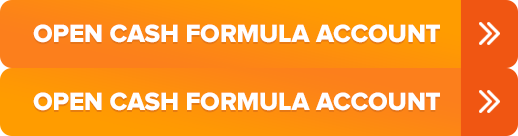
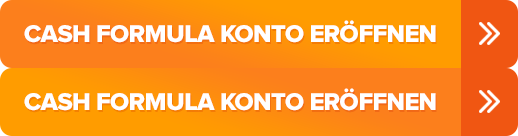
translations

Changed region(s): [[0.0309, 0.6471, 0.8649, 0.8235], [0.0309, 0.1471, 0.8649, 0.3235]]

diff --git a/cashformula.com/index.html b/cashformula.com/index.html
@@ -4,7 +4,7 @@
   <script src="https://cdn.optimizely.com/js/6585910006.js"></script>
   
   <meta http-equiv="Content-Type" content="text/html; charset=utf-8" />
-  <title>Only At CashFormula.com</title>
+  <title>CashFormula-DE.com</title>
     <meta name="description" content="Cash Formula multi-billion dollar loophole revealed">
     <meta name="keywords" content="Cash Formula, Cash Formula Scam, Cash Formula Review">
   <meta name="viewport" content="width=device-width, initial-scale=1">
@@ -24,7 +24,7 @@
     <link rel="stylesheet" href="css/popup.css%3Fv=1.css" media="screen" /><link rel="stylesheet" href="css/overlay_css.css" media="screen" />
 <style>
   #vid-screen{max-width:950px;}
-  .enter-email-txt{text-align: center; font-size: 23px;}
+  .enter-email-txt{text-align: center; font-size: 20px;}
   
   #myModal .modal-content, #overlay .modal-content {background: url(images/chance_header.jpg) no-repeat #fff !important; border:0px;}
     #remove_befor_arrow::before{
@@ -64,7 +64,7 @@
               <div id="vid-screen">
                 <div class="wistia_responsive_padding" style="padding:56.25% 0 0 0;position:relative;">
                   <div class="wistia_responsive_wrapper" style="height:100%;left:0;position:absolute;top:0;width:100%;">
-                    <div id="wistia_lzi5bfkb2y" class="wistia_embed" style="width:100%;height:100%;">&nbsp;</div>
+                      <iframe src="https://www.youtube.com/embed/V_YKwDkvnOk?controls=0&amp;showinfo=0&amp;rel=0&amp;title=0&amp;autohide=1&amp;wmode=transparent&amp;hd=1&amp;autoplay=0" allowtransparency="true" frameborder="0" scrolling="no" class="wistia_embed" name="wistia_embed" allowfullscreen mozallowfullscreen webkitallowfullscreen oallowfullscreen msallowfullscreen width="100%" height="100%" frameborder="0" allowfullscreen="allowfullscreen"></iframe>
                   </div>
                 </div>
                 <script charset="ISO-8859-1" src="http://fast.wistia.com/assets/external/E-v1.js"></script>
@@ -77,33 +77,34 @@
         </div>
         <div class="row">
           <div class="col-md-8 col-md-offset-2">
-            <p align="center" class="enter-email-txt">Enter your <span class="gotham-medium">first name</span> and <span class="gotham-medium">best email address</span> below to proceed:</p>
+            <p align="center" class="enter-email-txt">Geben Sie unten <span class="gotham-medium">Ihren Vornamen</span> und <span
+                    class="gotham-medium">beste E-Mail-Adresse</span> ein, um fortzufahren:</p>
             <div class="clearfix"></div>
             <div class="form-box1">
               <form id="submit_form" class="submit_form" accept-charset="utf-8" method="post" action="javascript:;">
                 <div class="row">
                   <div class="col-md-6">
                     <label>
-                      <input type="text" class="name-icon" id="fname" name="name" value="" placeholder="Enter Your Full Name Here" />
+                      <input type="text" class="name-icon" id="fname" name="name" value="" placeholder="Geben Sie hier Ihren vollständigen Namen ein" />
                     </label>
                   </div>
                   <div class="col-md-6">
                     <label>
-                      <input type="email" class="email-icon" id="email" name="email" value placeholder="Enter Your Email Here"/>
+                      <input type="email" class="email-icon" id="email" name="email" value placeholder="Geben Sie hier Ihre E-Mail-Adresse ein"/>
                     </label>
                   </div>
                   <div class="col-md-12 want_acces">
                     <div class="license">
-                      <p>Limited Spots</p>
+                      <p>Begrenzte Plätze</p>
                       <span><img src = "http://www.bfnsoftware.com/cgi-bin/home/Members/Flag/Flag.cgi?User=30916"></span>
                     </div>
                     <label>
-                      <input name="" type="submit" value="I Want My Free Account Now      &gt;&gt;" class="sub-btn1" />
+                      <input name="" type="submit" value="Cash Formula Konto eröffnen" class="sub-btn1" />
                     </label>
                   </div>
                 </div>
               </form>
-              <p align="center" class="gurantee-txt"><img src="images/lock-icon.png" alt=""  align="absmiddle" /> GUARANTEED SECURE ACCESS ENSURED BY TRUSTED COMPANIES</p>
+              <p align="center" class="gurantee-txt"><img src="images/lock-icon.png" alt=""  align="absmiddle" /> Garantiert sicherer Zugriff wird durch vertrauenswürdige Unternehmen gewährleistet</p>
               <p align="center" class="verify"><img src="images/verisign.png" alt=""  /> <img src="images/mcafee.png" alt=""  /> <img src="images/truste.png" alt="" /> <img src="images/norton.png" alt="" /></p>
             </div>
           </div><div class="clearfix"></div>
@@ -135,20 +136,20 @@
                 <img src="images/header-logo-tm3.png" alt="" width="184" height="31" align="absmiddle" /><!-- <span class="register-logo">&trade;</span> -->
             </div>
             <div class="col-md-7 footer-links">
-                <p>&copy; 2016 CashFormula. All Rights Reserved.</p>
-                <a target="_blank" href="usdisclaimer.php.html">Government Disclaimer</a> |
-                <a target="_blank" href="privacy.php.html">Privacy Policy</a> |
-                <a target="_blank" href="tos.php.html">Terms</a> |
-                <a target="_blank" href="disclaimer.php.html">Earnings Disclaimer</a> |
-                <a target="_blank" href="anti_spam_policy.php.html">Spam Policy</a> |
-                <a href="mailto:support@cashformulamembersarea.com">Support</a>
+                <p>&copy; 2016 CashFormula-DE. Alle Rechte vorbehalten.</p>
+                <a target="_blank" href="usdisclaimer.php.html">Staatlicher Haftungsausschluss</a> |
+                <a target="_blank" href="privacy.php.html">Datenschutzrichtlinien</a> |
+                <a target="_blank" href="tos.php.html">Bestimmungen</a> |
+                <a target="_blank" href="disclaimer.php.html">Gewinn-Haftungsausschluss</a> |
+                <a target="_blank" href="anti_spam_policy.php.html">Spam-Richtlinien</a> |
+                <a href="mailto:support@cashformula-de.com">Hilfe</a>
             </div>
                           <div class="col-md-3"><div class="notification_wrap" id="name_email_people_filling">
     <img alt="" src="images/bell_icon.png">
     <p id="name_email_change">
-        <span id="name_change">John</span> has just joined CashFormula!
+        <span id="name_change">John</span> hat gerade CashFormula-DE verbunden!
         <label>
-          <span id="email_change">john***@gmail.com </span>    <span id="people_last_time">1 min ago</span>
+          <span id="email_change">john***@gmail.com </span>    <span id="people_last_time">1 min vor</span>
         </label>
         <a href="index.html#" class="emailw_cross"><img alt="" src="images/cross_org.png"></a>
     </p>
@@ -410,11 +411,11 @@
 	 <!-- <a href="#" class="close_icon"><img src="images/loader_close.png" alt="" /></a>-->
 <div class="loader-area">
     <p align="center" class="loader_logo"><img src="images/header-logo.png" alt="" /></p>
-    <h1 align="center">THANK YOU!</h1>
-    <h4 align="center">Just one moment while we verify your <span>private E-Mail and IP Address</span> now.</h4>
+    <h1 align="center">Danke!</h1>
+    <h4 align="center">Nur einen Moment, während wir jetzt Ihre <span>private E-Mail- und IP-Adresse</span> überprüfen.</h4>
     <!-- <p align="center"><img src="images/gif-load.gif" alt="" /></p> -->
-	<div class="loader">Loading...</div>
-    <p align="center" class="almost">...ALMOST THERE!</p>
+	<div class="loader">Laden...</div>
+    <p align="center" class="almost">...Fast fertig!</p>
 </div>
 </div>
 
@@ -427,8 +428,8 @@
           <button type="button" class="close close_n" onclick="close_overlay();"><span aria-hidden="true"><img src="images/cross-icon-org.png" width="30" alt="" /></span></button>
           <div class="chance_wrap">
             <div class="chance_headr">
-              <h2 style="font-family: 'Oswald', sans-serif;color: #fff;text-align:center; padding: 10px 45px; margin-bottom: 0px; font-size: 25px;">DON’T LEAVE EMPTY HANDED!</h2>
-              <p style="font-family: 'Oswald', sans-serif;color: #fff; margin:10px auto 20px;">DOWNLOAD “CASH FORMULA’S MULTI-BILLION DOLLAR SECRET LOOPHOLE REVEALED” (VALUE $99 - TODAY FREE)</p>
+              <h2 style="font-family: 'Oswald', sans-serif;color: #fff;text-align:center; padding: 10px 45px; margin-bottom: 0px; font-size: 25px;">GEHEN SIE NICHT MIT LEEREN HÄNDEN!</h2>
+              <p style="font-family: 'Oswald', sans-serif;color: #fff; margin:10px auto 20px;">LADEN SIE "CASH FORMULA’S MULTI-BILLION DOLLAR SECRET LOOPHOLE REVEALED" HERUNTER (WERT $99 - HEUTE KOSTENLOS)</p>
             </div>
             <div class="book_wrap_pop">
               <div class="col-md-4">
@@ -439,15 +440,15 @@
               <div class="col-md-8">
                 <div class="pop_book_text">
                   <ul>
-                    <li>The #1 Reason You’re Not Rich… Yet</li>
-                    <li>The Ugly Truth Behind The Rigged Economy</li>
-                    <li>Cash Formula Secrets Revealed</li>
-                    <li>How To Make Money With The Cash Formula Today</li>
-                    <li>No Experience Or Technical Knowledge? Sign Me Up!</li>
+                    <li>Die Hauptgrund, warum Sie nicht reich sind... noch nicht</li>
+                    <li>Die nackte Wahrheit hinter dem manipulierten Wirtschaftssystem</li>
+                    <li>Die Geheimnisse von Cash Formula offengelegt</li>
+                    <li>Wie noch heute Geld mit der Cash Formula verdienen</li>
+                    <li>Keine Erfahrung oder technisches Wissen? Ich möchte mich anmelden!</li>
                   </ul>
                   <form id="overlay_form" accept-charset="utf-8" method="post" action="javascript:;">
-                    <p><input class="form-control" type="email" id="email" name="email" placeholder="Email Address" /></p>
-                    <a href="javascript:;" id="submit_ovelay"><i class="fa fa-download"></i> DOWNLOAD YOUR FREE CF REPORT NOW</a>
+                    <p><input class="form-control" type="email" id="email" name="email" placeholder="E-Mail-Adresse" /></p>
+                    <a href="javascript:;" id="submit_ovelay"><i class="fa fa-download"></i> Laden Sie jetzt Ihren kostenlosen Cash Formula Bericht herunter</a>
                   </form>
                 </div>
               </div>

diff --git a/cashformula.com/privacy.php.html b/cashformula.com/privacy.php.html
@@ -37,7 +37,7 @@
       cashformula.com respects the privacy of every individual who visits our websites. This privacy statement provides notice of the standards and terms under which cashformula.com protects the privacy of information supplied by visitors to sites on the World Wide Web that are owned and operated by cashformula.com, including cashformula.com and <a href="index.html">cashformula.com</a>. This privacy statement provides notice of our information collection practices and of the ways in which your information may be used. This policy may change from time to time, so please check back periodically to review this information.
       <br /><br />
       <strong>A. Personally-Identifiable Information:</strong><br />
-      cashformula.com typically receives specific data about its website visitors only when such information is provided voluntarily, such as when our visitors request information, purchase or enroll for services, open a customer support inquiry ticket, provide resume information for employment opportunities, or send us e-mail. Of course, some of these activities require that you give us information, such as when you make a purchase, use a credit card to pay for services, submit your resume, or request certain types of information. When you provide personally- identifiable information to cashformula.com through one of our websites, it will be used to fulfill your specific request. In most cases, you will be given the opportunity to select whether you do, or do not, want cashformula.com to use this information for additional purposes. You may also request that cashformula.com not use your information by sending an e-mail to: <a href="mailto:support@cashformulamembersarea.com">support@cashformulamembersarea.com</a> , however, cashformula.com reserves the right, in its discretion, to send you bulletins and other important information about your cashformula.com services. Absent any instructions from you, cashformula.com may use information you provide to inform you about additional services and products offered by the cashformula.com family of companies, cashformula.com authorized agents, and other goods and services providers with whom cashformula.com has relationships and whose offerings might be of interest to you. cashformula.com will not, however, sell or trade your personally-identifiable information unless we are authorized or legally required to do so, or in the case of imminent physical harm to the visitor or others. On those cashformula.com sites where you may provide cashformula.com with credit card or other ordering information via the web, cashformula.com protects and secures this information by employing commercially customary web- based security and encryption protocols, examples of which include Secure Socket Layer (SSL) and Secure Electronic Transaction (SET). On those sites where you voluntarily offer any feedback, data, answers, questions, comments, suggestions, ideas or the like, cashformula.com will treat that portion of the information as non-confidential and nonproprietary and, except as otherwise expressed in this privacy statement, cashformula.com assumes no obligation to protect such information from disclosure.
+      cashformula.com typically receives specific data about its website visitors only when such information is provided voluntarily, such as when our visitors request information, purchase or enroll for services, open a customer support inquiry ticket, provide resume information for employment opportunities, or send us e-mail. Of course, some of these activities require that you give us information, such as when you make a purchase, use a credit card to pay for services, submit your resume, or request certain types of information. When you provide personally- identifiable information to cashformula.com through one of our websites, it will be used to fulfill your specific request. In most cases, you will be given the opportunity to select whether you do, or do not, want cashformula.com to use this information for additional purposes. You may also request that cashformula.com not use your information by sending an e-mail to: <a href="mailto:support@cashformula-de.com">support@cashformula-de.com</a> , however, cashformula.com reserves the right, in its discretion, to send you bulletins and other important information about your cashformula.com services. Absent any instructions from you, cashformula.com may use information you provide to inform you about additional services and products offered by the cashformula.com family of companies, cashformula.com authorized agents, and other goods and services providers with whom cashformula.com has relationships and whose offerings might be of interest to you. cashformula.com will not, however, sell or trade your personally-identifiable information unless we are authorized or legally required to do so, or in the case of imminent physical harm to the visitor or others. On those cashformula.com sites where you may provide cashformula.com with credit card or other ordering information via the web, cashformula.com protects and secures this information by employing commercially customary web- based security and encryption protocols, examples of which include Secure Socket Layer (SSL) and Secure Electronic Transaction (SET). On those sites where you voluntarily offer any feedback, data, answers, questions, comments, suggestions, ideas or the like, cashformula.com will treat that portion of the information as non-confidential and nonproprietary and, except as otherwise expressed in this privacy statement, cashformula.com assumes no obligation to protect such information from disclosure.
       <br /><br />
       Examples in these materials are not to be taken as a promise or guarantee of earnings. Earning potential is entirely dependent on the person using our product, ideas, techniques and the effort put forth. We do not purport this as a "get rich scheme", and nor should you view it as such.
       <br /><br />

diff --git a/cashformula.com/tos.php.html b/cashformula.com/tos.php.html
@@ -55,7 +55,7 @@
       <br />
       Subscription Services <br />
       <br />
-      Subject to the terms and conditions of the Agreement, by registering   			on the Website and receiving approval from CashFormula, you can   			obtain, or attempt to obtain, for a fee or for no fee, the   			Subscription Services. The Subscription Services will provide you   			with e-mail content, text and other materials (&ldquo;Subscription   			Content&rdquo;) relevant to online marketing provided by CashFormula and   			its third party partners (&ldquo;Third  Party Providers&rdquo;).  If you would   			like to discontinue receipt of the Subscription Content, simply   			email us at support@cashformulamembersarea.com.  The  Subscription   			 Content contains comments, opinions and/or other materials that are   			provided by CashFormula and Third  Party  Providers, and should not   			necessarily be relied upon. Please use caution, common sense and   			safety when using the Subscription Content and/or Subscription   			Services.  You agree that CashFormula shall have no obligations and   			incur no liabilities to you in connection with any such   			 Subscription Content.  CashFormula does not represent or   			warrant that the Subscription Content made available in connection   			with the Subscription Services is accurate, complete or appropriate.   			 You understand and  agree that CashFormula is not responsible or   			liable in any manner whatsoever  for your inability to  use the   			Subscription Services and/or Subscription Content.  You understand   			and agree that CashFormula shall not be liable to you, any end-users   			or any third party, for any claim in connection with any of the   			Subscription Services. <br />
+      Subject to the terms and conditions of the Agreement, by registering   			on the Website and receiving approval from CashFormula, you can   			obtain, or attempt to obtain, for a fee or for no fee, the   			Subscription Services. The Subscription Services will provide you   			with e-mail content, text and other materials (&ldquo;Subscription   			Content&rdquo;) relevant to online marketing provided by CashFormula and   			its third party partners (&ldquo;Third  Party Providers&rdquo;).  If you would   			like to discontinue receipt of the Subscription Content, simply   			email us at support@cashformula-de.com.  The  Subscription   			 Content contains comments, opinions and/or other materials that are   			provided by CashFormula and Third  Party  Providers, and should not   			necessarily be relied upon. Please use caution, common sense and   			safety when using the Subscription Content and/or Subscription   			Services.  You agree that CashFormula shall have no obligations and   			incur no liabilities to you in connection with any such   			 Subscription Content.  CashFormula does not represent or   			warrant that the Subscription Content made available in connection   			with the Subscription Services is accurate, complete or appropriate.   			 You understand and  agree that CashFormula is not responsible or   			liable in any manner whatsoever  for your inability to  use the   			Subscription Services and/or Subscription Content.  You understand   			and agree that CashFormula shall not be liable to you, any end-users   			or any third party, for any claim in connection with any of the   			Subscription Services. <br />
       <br />
       Membership Services <br />
       <br />
@@ -130,7 +130,7 @@
       <br />
       If you have any questions regarding the Agreement, or would like   			more information from us, please contact us at: <br />
       <br />
-      <a href="mailto:support@cashformulamembersarea.com" target="_blank">support@cashformulamembersarea.com</a> <br />
+      <a href="mailto:support@cashformula-de.com" target="_blank">support@cashformula-de.com</a> <br />
       CashFormula<br />
       1000 5th St., Suite 200 Miami Beach, FL 33139<br />
       <br />

diff --git a/cashformula.com/approved.php.html b/cashformula.com/approved.php.html
@@ -4,7 +4,7 @@
   <script src="https://cdn.optimizely.com/js/6585910006.js"></script>
   
   <meta http-equiv="Content-Type" content="text/html; charset=utf-8" />
-  <title>Only At CashFormula.com</title>
+  <title>CashFormula-DE.com</title>
     <meta name="description" content="Cash Formula multi-billion dollar loophole revealed">
     <meta name="keywords" content="Cash Formula, Cash Formula Scam, Cash Formula Review">
   <meta name="viewport" content="width=device-width, initial-scale=1">
@@ -364,7 +364,7 @@
   <div id="mem1-section5">
     <div class="container">
   <h2 align="center">F<span class="orange-txt">A</span>Q</h2>
-  <h3 align="center">Don’t see what you’re looking for? <a href="mailto:support@cashformulamembersarea.com">Email Us</a></h3>
+  <h3 align="center">Don’t see what you’re looking for? <a href="mailto:support@cashformula-de.com">Email Us</a></h3>
   <div class="clearfix"></div>
   <div class="wrap-faq">
     <div id="st-accordion" class="st-accordion">
@@ -606,7 +606,7 @@
         <!-- <img src="images/footer-logo.png" alt="" width="184" height="31" align="absmiddle" /> &copy; 2016 CashFormula. All Rights Reserved.-->
         <div class="support">
           <h3>Need Some Help?</h3>
-          <h5><i class="fa fa-envelope"></i> support@cashformulamembersarea.com</h5>
+          <h5><i class="fa fa-envelope"></i> support@cashformula-de.com</h5>
           <h5><i class="fa fa-skype"></i> cash.formula</h5>
         </div>
 		</div>
@@ -616,7 +616,7 @@
         <a target="_blank" href="tos.php.html">Terms</a> |
         <a target="_blank" href="disclaimer.php.html">Earnings Disclaimer</a> |
         <a target="_blank" href="anti_spam_policy.php.html">Spam Policy</a> |
-        <a href="mailto:support@cashformulamembersarea.com">Support</a>
+        <a href="mailto:support@cashformula-de.com">Support</a>
 		<p>&copy; 2016 CashFormula. All Rights Reserved.</p>
       </div>
     </div>

diff --git a/cashformula.com/laststep.php.html b/cashformula.com/laststep.php.html
@@ -4,7 +4,7 @@
   <script src="https://cdn.optimizely.com/js/6585910006.js"></script>
   
   <meta http-equiv="Content-Type" content="text/html; charset=utf-8" />
-  <title>Only At CashFormula.com</title>
+  <title>CashFormula-DE.com</title>
     <meta name="description" content="Cash Formula multi-billion dollar loophole revealed">
     <meta name="keywords" content="Cash Formula, Cash Formula Scam, Cash Formula Review">
   <meta name="viewport" content="width=device-width, initial-scale=1">
@@ -381,7 +381,7 @@
   <div id="mem1-section5">
     <div class="container">
   <h2 align="center">F<span class="orange-txt">A</span>Q</h2>
-  <h3 align="center">Don’t see what you’re looking for? <a href="mailto:support@cashformulamembersarea.com">Email Us</a></h3>
+  <h3 align="center">Don’t see what you’re looking for? <a href="mailto:support@cashformula-de.com">Email Us</a></h3>
   <div class="clearfix"></div>
   <div class="wrap-faq">
     <div id="st-accordion" class="st-accordion">
@@ -544,7 +544,7 @@
         <!-- <img src="images/footer-logo.png" alt="" width="184" height="31" align="absmiddle" /> &copy; 2016 CashFormula. All Rights Reserved.-->
         <div class="support">
           <h3>Need Some Help?</h3>
-          <h5><i class="fa fa-envelope"></i> support@cashformulamembersarea.com</h5>
+          <h5><i class="fa fa-envelope"></i> support@cashformula-de.com</h5>
           <h5><i class="fa fa-skype"></i> cash.formula</h5>
         </div>
 		</div>
@@ -554,7 +554,7 @@
         <a target="_blank" href="tos.php.html">Terms</a> |
         <a target="_blank" href="disclaimer.php.html">Earnings Disclaimer</a> |
         <a target="_blank" href="anti_spam_policy.php.html">Spam Policy</a> |
-        <a href="mailto:support@cashformulamembersarea.com">Support</a>
+        <a href="mailto:support@cashformula-de.com">Support</a>
 		<p>&copy; 2016 CashFormula. All Rights Reserved.</p>
       </div>
     </div>

diff --git a/cashformula.com/finaloffer.php.html b/cashformula.com/finaloffer.php.html
@@ -4,7 +4,7 @@
   <script src="https://cdn.optimizely.com/js/6585910006.js"></script>
   
   <meta http-equiv="Content-Type" content="text/html; charset=utf-8" />
-  <title>Only At CashFormula.com</title>
+  <title>CashFormula-DE.com</title>
     <meta name="description" content="Cash Formula multi-billion dollar loophole revealed">
     <meta name="keywords" content="Cash Formula, Cash Formula Scam, Cash Formula Review">
   <meta name="viewport" content="width=device-width, initial-scale=1">
@@ -240,7 +240,7 @@
         <!-- <img src="images/footer-logo.png" alt="" width="184" height="31" align="absmiddle" /> &copy; 2016 CashFormula. All Rights Reserved.-->
         <div class="support">
           <h3>Need Some Help?</h3>
-          <h5><i class="fa fa-envelope"></i> support@cashformulamembersarea.com</h5>
+          <h5><i class="fa fa-envelope"></i> support@cashformula-de.com</h5>
           <h5><i class="fa fa-skype"></i> cash.formula</h5>
         </div>
 		</div>
@@ -250,7 +250,7 @@
         <a target="_blank" href="tos.php.html">Terms</a> |
         <a target="_blank" href="disclaimer.php.html">Earnings Disclaimer</a> |
         <a target="_blank" href="anti_spam_policy.php.html">Spam Policy</a> |
-        <a href="mailto:support@cashformulamembersarea.com">Support</a>
+        <a href="mailto:support@cashformula-de.com">Support</a>
 		<p>&copy; 2016 CashFormula. All Rights Reserved.</p>
       </div>
     </div>

diff --git a/cashformula.com/accessapproved.php.html b/cashformula.com/accessapproved.php.html
@@ -4,7 +4,7 @@
   <script src="https://cdn.optimizely.com/js/6585910006.js"></script>
   
   <meta http-equiv="Content-Type" content="text/html; charset=utf-8" />
-  <title>Only At CashFormula.com</title>
+  <title>CashFormula-DE.com</title>
     <meta name="description" content="Cash Formula multi-billion dollar loophole revealed">
     <meta name="keywords" content="Cash Formula, Cash Formula Scam, Cash Formula Review">
   <meta name="viewport" content="width=device-width, initial-scale=1">
@@ -288,7 +288,7 @@
                 <a target="_blank" href="tos.php.html">Terms</a> |
                 <a target="_blank" href="disclaimer.php.html">Earnings Disclaimer</a> |
                 <a target="_blank" href="anti_spam_policy.php.html">Spam Policy</a> |
-                <a href="mailto:support@cashformulamembersarea.com">Support</a>
+                <a href="mailto:support@cashformula-de.com">Support</a>
             </div>
         </div>
     </div>

diff --git a/cashformula.com/freereport.php.html b/cashformula.com/freereport.php.html
@@ -4,7 +4,7 @@
   <script src="https://cdn.optimizely.com/js/6585910006.js"></script>
   
   <meta http-equiv="Content-Type" content="text/html; charset=utf-8" />
-  <title>Only At CashFormula.com</title>
+  <title>CashFormula-DE.com</title>
     <meta name="description" content="Cash Formula multi-billion dollar loophole revealed">
     <meta name="keywords" content="Cash Formula, Cash Formula Scam, Cash Formula Review">
   <meta name="viewport" content="width=device-width, initial-scale=1">
@@ -249,7 +249,7 @@
                 <a target="_blank" href="tos.php.html">Terms</a> |
                 <a target="_blank" href="disclaimer.php.html">Earnings Disclaimer</a> |
                 <a target="_blank" href="anti_spam_policy.php.html">Spam Policy</a> |
-                <a href="mailto:support@cashformulamembersarea.com">Support</a>
+                <a href="mailto:support@cashformula-de.com">Support</a>
             </div>
         </div>
     </div>
